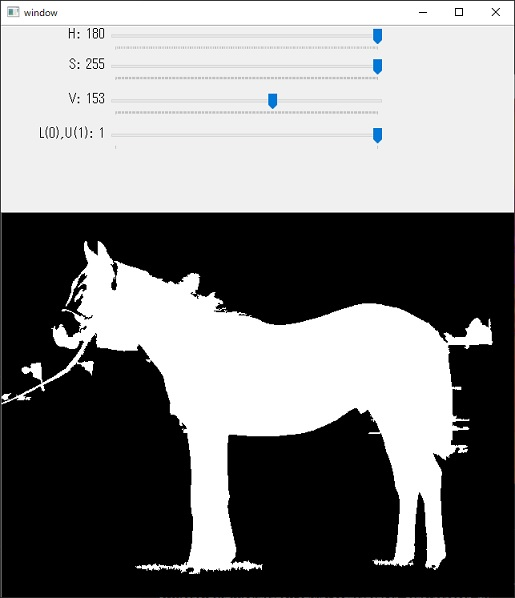
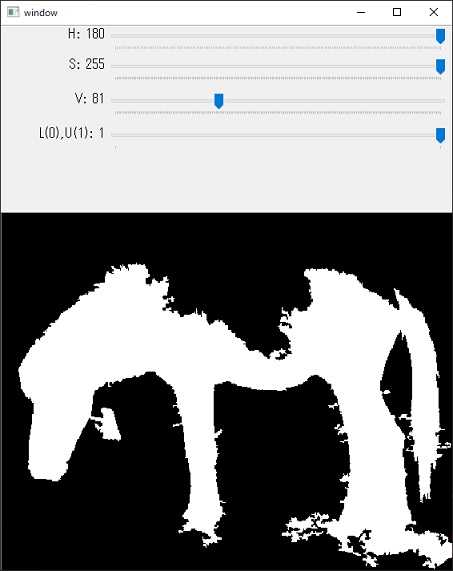
refine desc in detail(README.md), add and modofied desc image, modified args help desc, image windows size is variable

Changed region(s): [[0.0, 0.0, 1.0, 1.0], [0.0618, 0.2084, 0.2163, 0.2382]]

diff --git a/nondeep.py b/nondeep.py
@@ -84,7 +84,7 @@ def trackbar(bgrimg, hsvimg):
     ENTER_KEY = 13  # Enterキーコード
 
     # 'window'ウィンドウでパラメーター処理
-    cv2.namedWindow("window")
+    cv2.namedWindow("window",cv2.WINDOW_NORMAL) # ウィンドウサイズ：可変
     cv2.createTrackbar("H", "window", 0, 180, dummy)
     cv2.createTrackbar("S", "window", 0, 255, dummy)
     cv2.createTrackbar("V", "window", 0, 255, dummy)
@@ -204,7 +204,7 @@ if __name__ == "__main__":
         default="https://blogimg.goo.ne.jp/user_image/29/58/45dc07ba6673ee855e23253d6ff78098.jpg",
         help="入力画像URL",
     )
-    parser.add_argument("--fname", type=str, default="deepbond.jpg", help="保存ファイル名")
+    parser.add_argument("--fname", type=str, default="deepbond.jpg", help="ダウンロードファイル名")
     parser.add_argument("--display", action="store_false", help="表示フラグ")
     parser.add_argument("--save", action="store_true", help="保存フラグ")
     args = parser.parse_args()

diff --git a/deep.py b/deep.py
@@ -135,7 +135,7 @@ if __name__ == "__main__":
         help="入力画像URL",
     )
     parser.add_argument("--fpath",type=str,default="./img/tokara_horse.jpg",help="ローカル上の画像パス")
-    parser.add_argument("--fname", type=str, default="horse.jpg", help="保存ファイル名")
+    parser.add_argument("--fname", type=str, default="horse.jpg", help="ダウンロードファイル名")
     parser.add_argument("--display", action="store_false", help="表示フラグ")
     parser.add_argument("--save", action="store_true", help="保存フラグ")
     args = parser.parse_args()

diff --git a/README.md b/README.md
@@ -2,17 +2,21 @@
 
 ## 非深層学習ベース
 二値化・輪郭抽出による馬の領域抽出<br>
-トラックバーによって手動でパラメーターを設定
+トラックバーによって手動でマスクを設定
 
 <img src="./assets/desc.jpg" style="height:200px"></img><br>
 図１：非深層学習手法による出力結果比較
 
 ### トラックバー説明
-- 画面上部に操作パラメーター、下部に生成されるマスクの図
-- HSVパラメーター以外にモードのパラメーターが存在
-- モードは二値化の上限値と下限値の設定の2種類
+**マスクを生成**
+
+パラメーターによって二値化の範囲を設定
+- 画面上部に操作パラメーター、画面下部に生成されるマスク
+- HSVパラメーターと"モード"のパラメーターが存在
+- "モード"は二値化の上限値or下限値の設定の2種類
 - 二値化上限値設定モードがデフォルト
 - Enterキーを押すとマスクを確定
+- imageウィンドウに描画される図を**ダブルクリック**すると該当ピクセルの色を取得して二値化のパラメーターに反映
 
 【注意】
 マスクは被写体が白、それ以外は黒になるように生成する必要
@@ -20,6 +24,8 @@
 <img src="./assets/trackbar.jpg" style="height:400px"></img><br>
 図２：トラックバー
 
+<img src="./assets/getcolor.jpg" style="height:300px"></img><br>
+図３：imageウィンドウにおける色取得(表示される画像はHSV画像)
 
 
 ## 深層学習ベース
